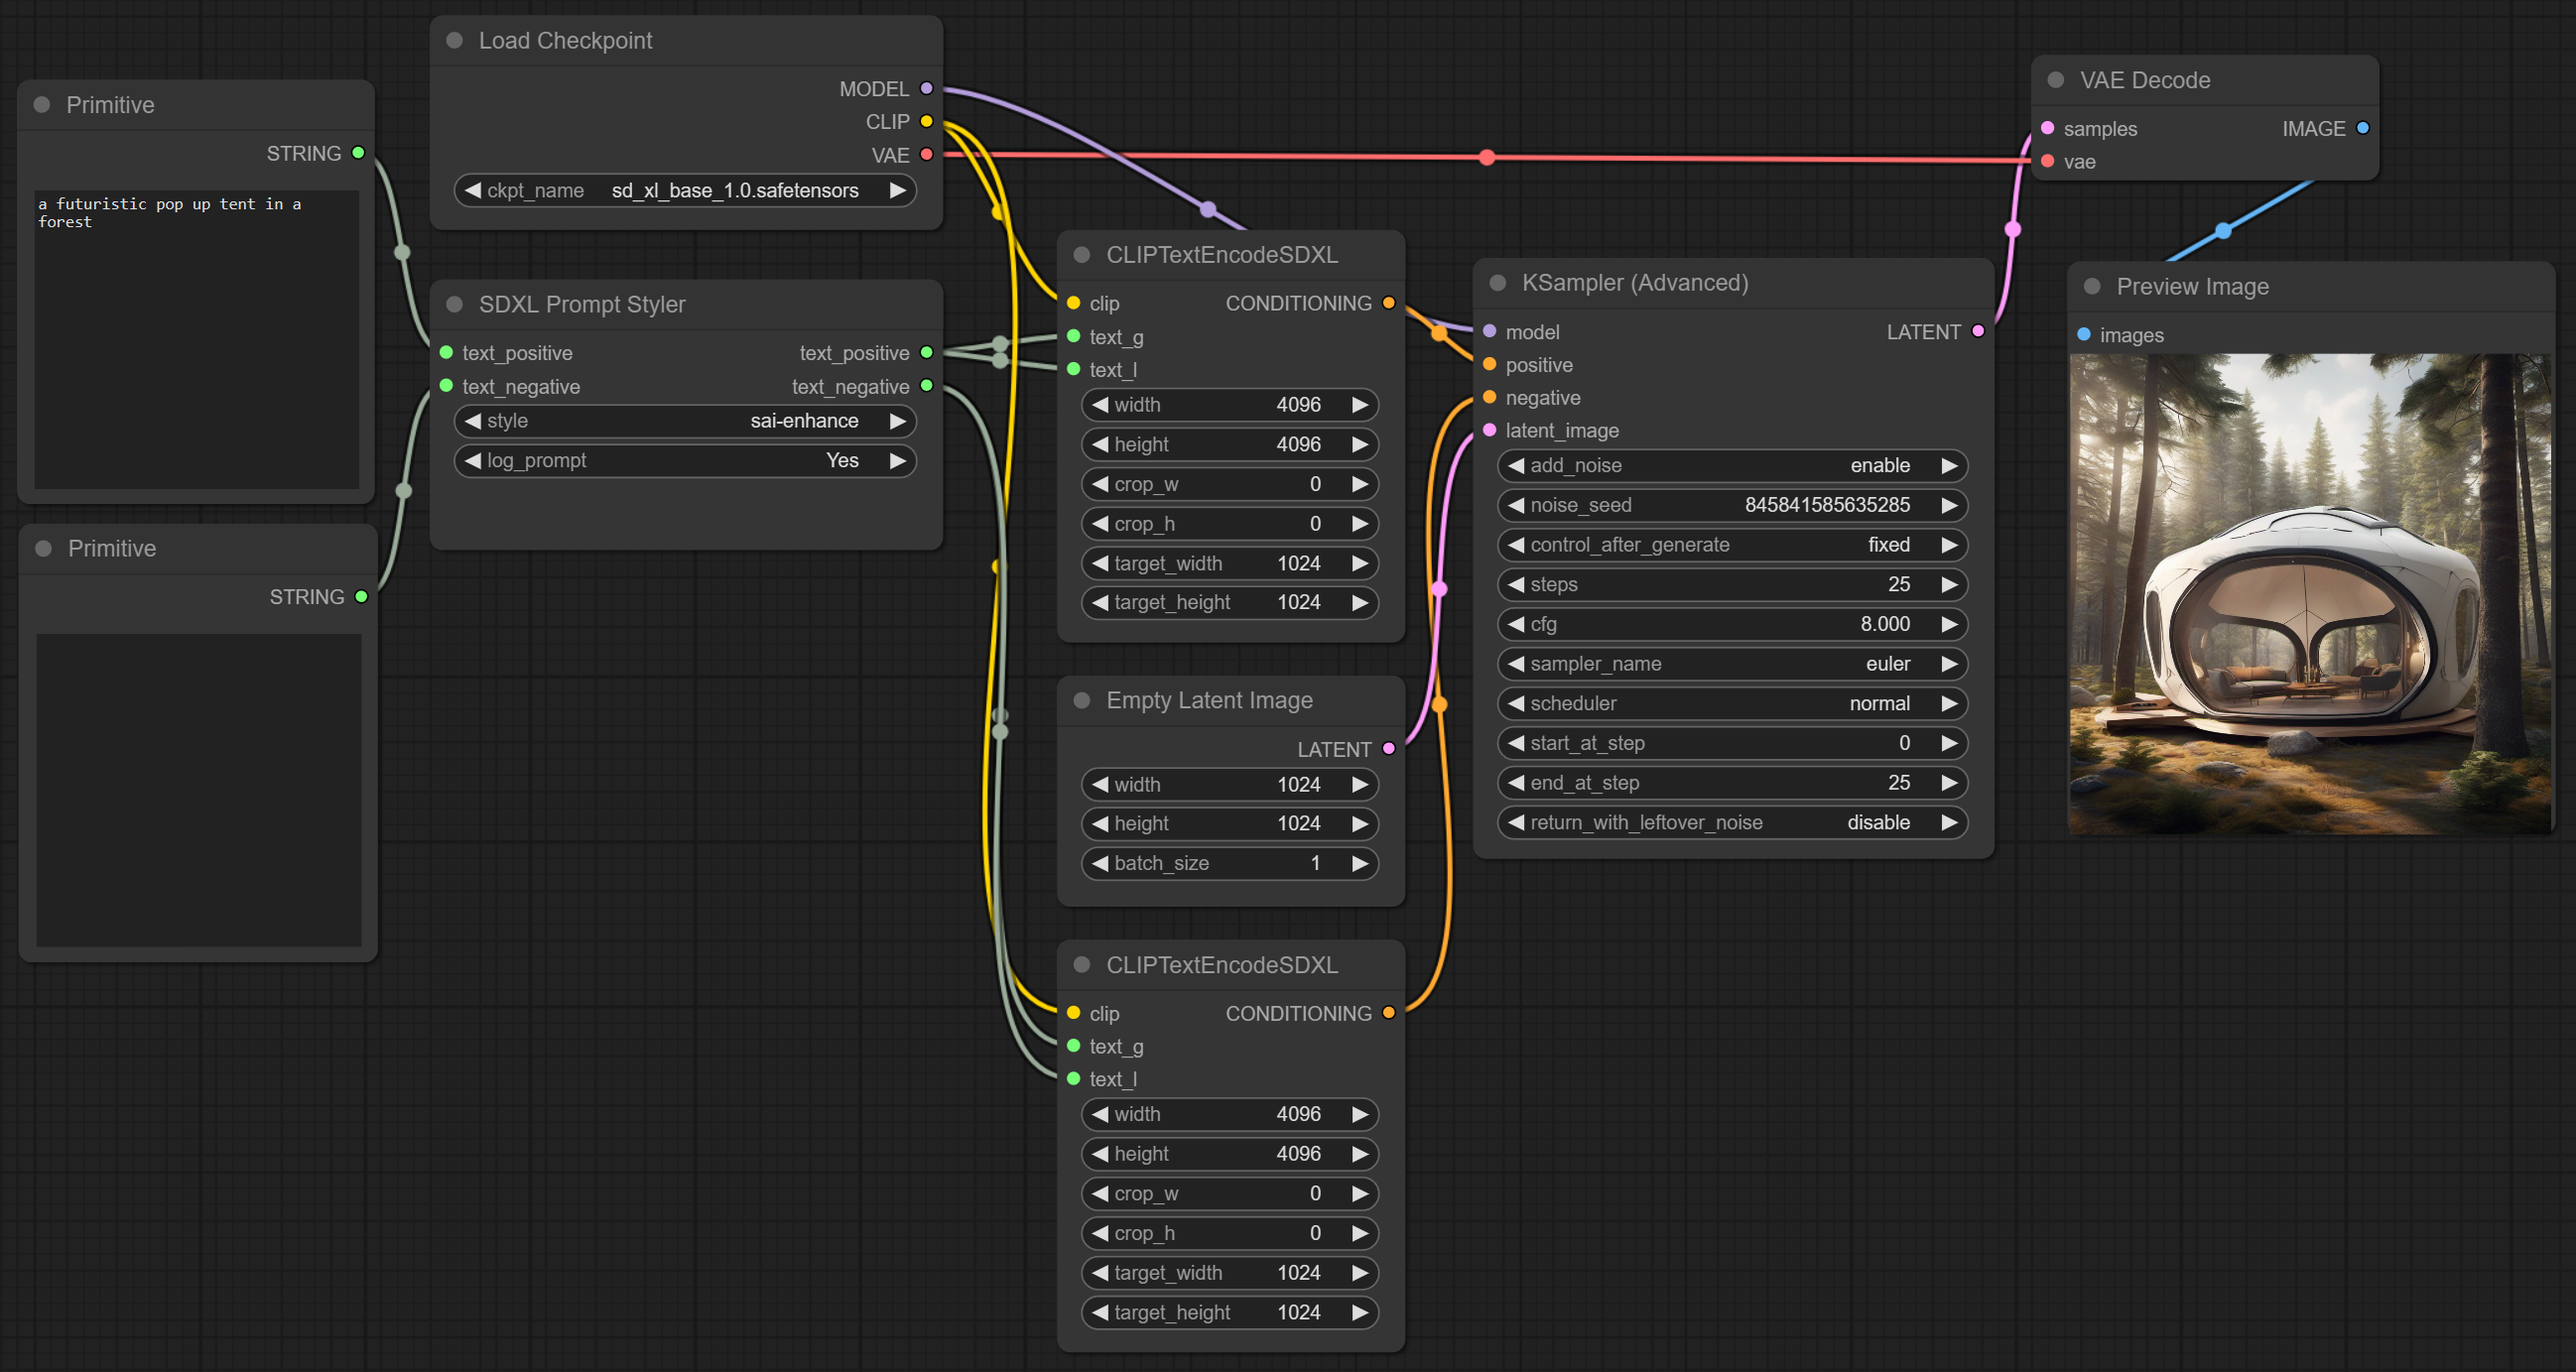
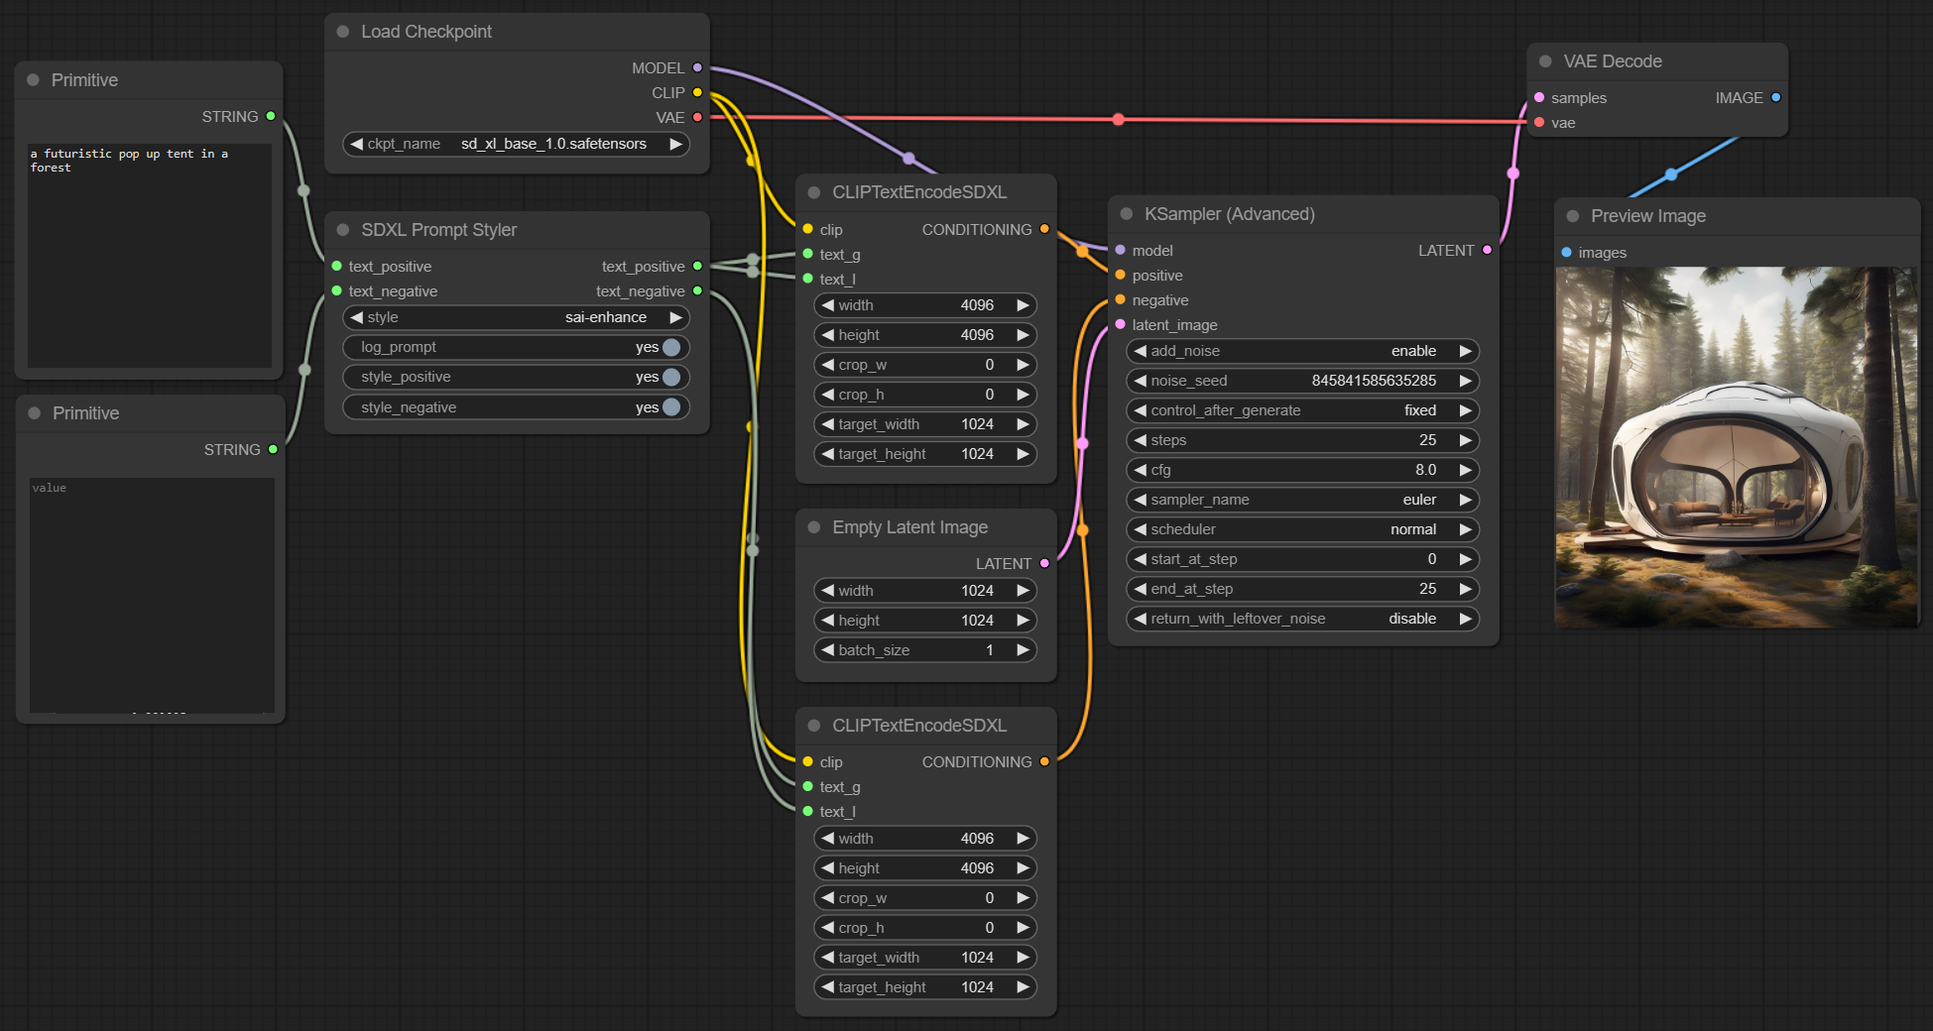
Add toggles to disable styling

diff --git a/sdxl_prompt_styler.py b/sdxl_prompt_styler.py
@@ -221,6 +221,8 @@ class SDXLPromptStyler:
                 "text_negative": ("STRING", {"default": "", "multiline": True}),
                 "style": ((styles), ),
                 "log_prompt": ("BOOLEAN", {"default": True, "label_on": "yes", "label_off": "no"}),
+                "style_positive": ("BOOLEAN", {"default": True, "label_on": "yes", "label_off": "no"}),
+                "style_negative": ("BOOLEAN", {"default": True, "label_on": "yes", "label_off": "no"}),
             },
         }
 
@@ -229,11 +231,23 @@ class SDXLPromptStyler:
     FUNCTION = 'prompt_styler'
     CATEGORY = 'utils'
 
-    def prompt_styler(self, text_positive, text_negative, style, log_prompt):
+    def prompt_styler(self, text_positive, text_negative, style, log_prompt, style_positive, style_negative):
         # Process and combine prompts in templates
         # The function replaces the positive prompt placeholder in the template,
         # and combines the negative prompt with the template's negative prompt, if they exist.
         text_positive_styled, text_negative_styled = read_sdxl_templates_replace_and_combine(self.json_data, style, text_positive, text_negative)
+
+        # If style_negative is disabled, set text_negative_styled to text_negative
+        if not style_positive:
+            text_positive_styled = text_positive
+            if log_prompt:
+                print(f"style_positive: disabled")
+
+        # If style_negative is disabled, set text_negative_styled to text_negative
+        if not style_negative:
+            text_negative_styled = text_negative
+            if log_prompt:
+                print(f"style_negative: disabled")
  
         # If logging is enabled (log_prompt is set to "Yes"), 
         # print the style, positive and negative text, and positive and negative prompts to the console

diff --git a/README.md b/README.md
@@ -13,6 +13,12 @@ The node also effectively manages negative prompts. If negative text is provided
 ## Changelog
 This section details the updates and new features committed over time, organized chronologically with the most recent changes at the top.
 
+### Commit date (2024-01-19)
+
+#### New Features
+
+* **SDXL Prompt Styler**: Add toggles to disable styling for positive, negative, or both sentiments (bypass mode)
+
 ### Commit date (2023-08-27)
 
 #### New Features
